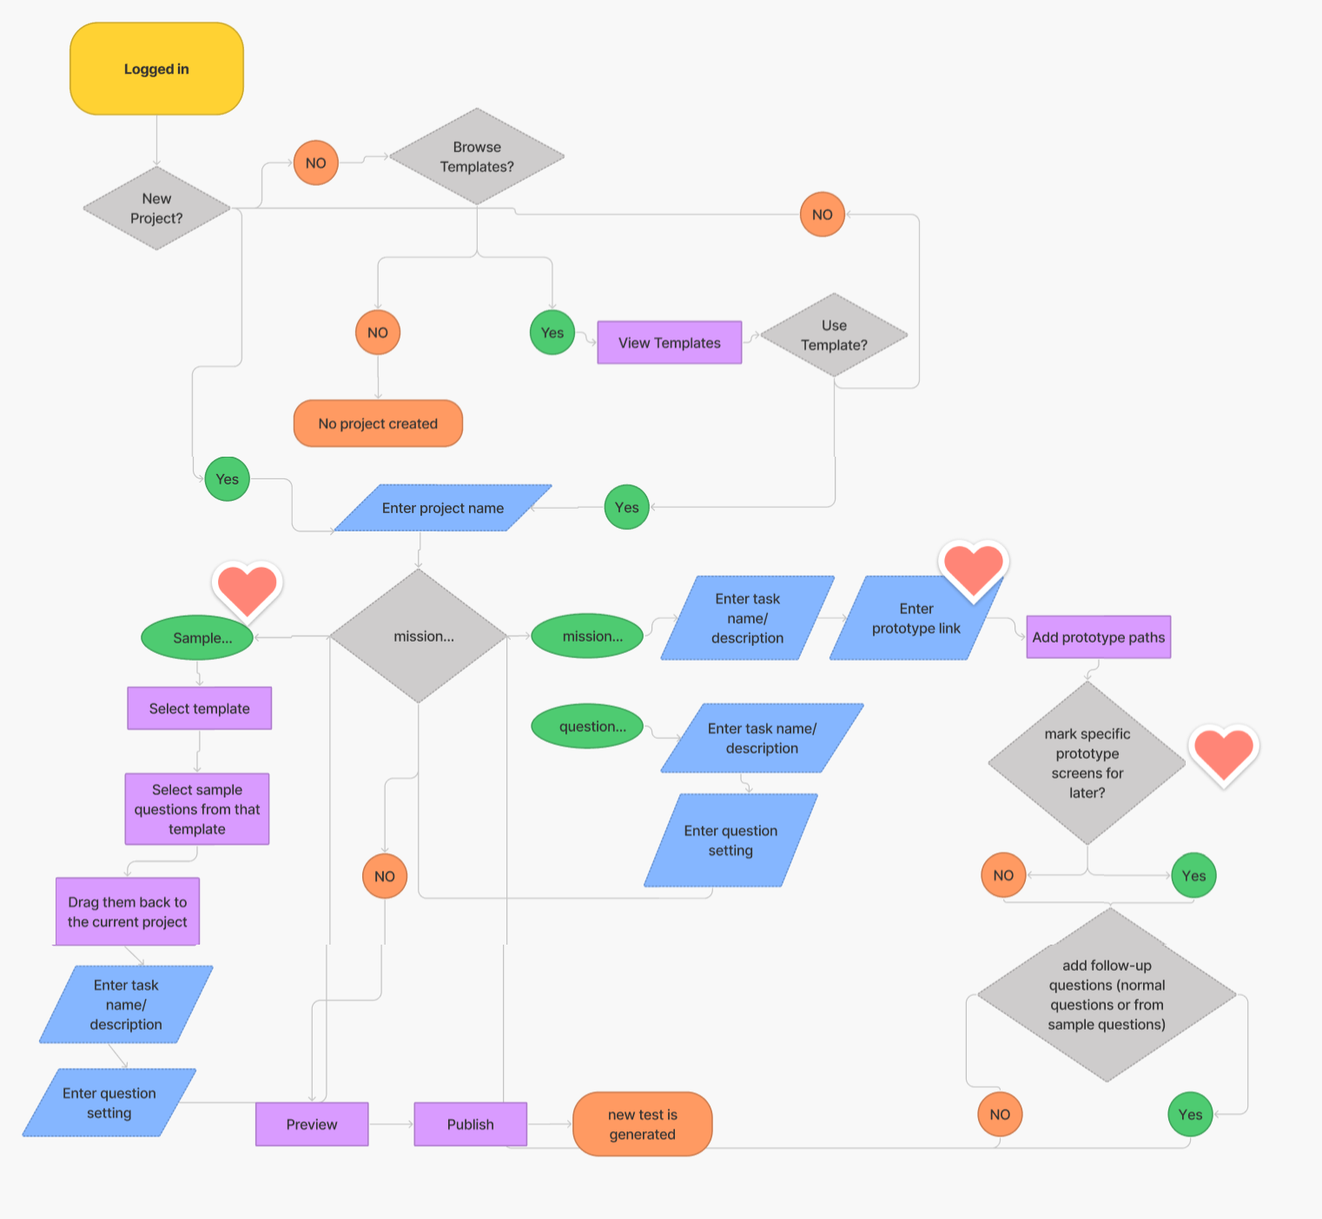
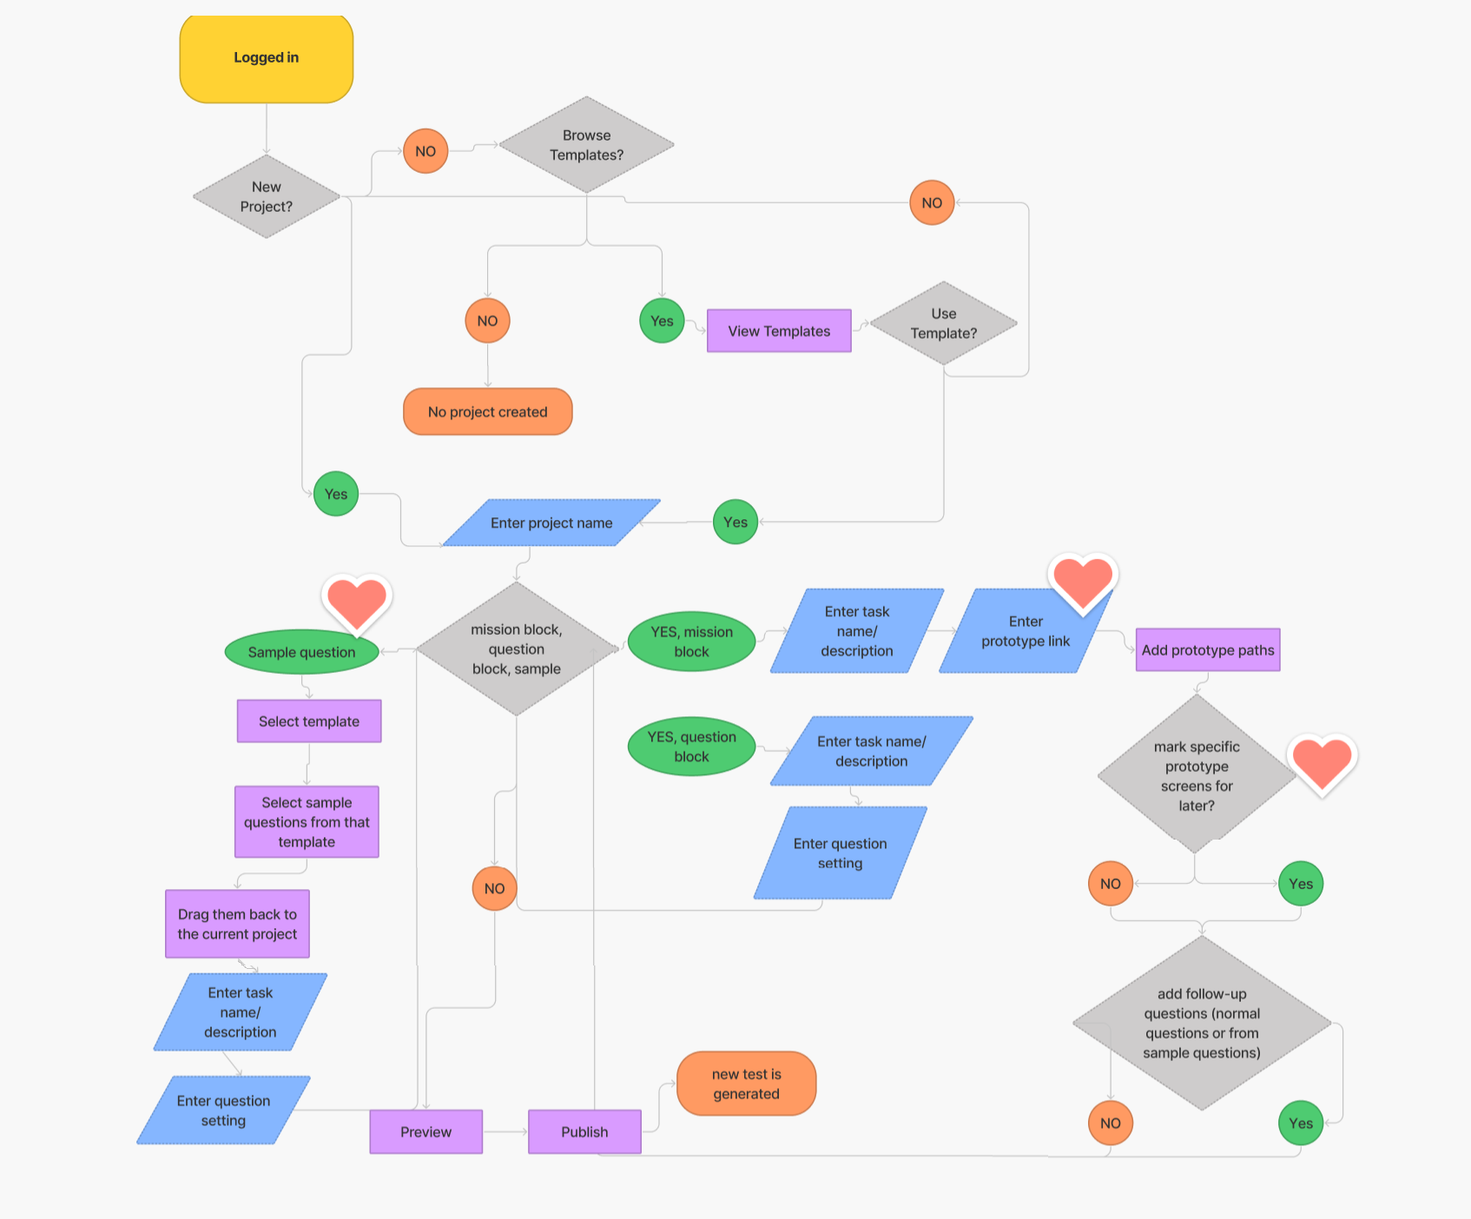
maze: almost the last part

diff --git a/maze.html b/maze.html
@@ -86,7 +86,7 @@
   <p class="project-paragraph ">We discovered Maze's interface had many components that will create visual confusion. If we could decrease the amount of visual confusion, we can improve users'
     experience. Nevertheless, we decided to first understand our users' pain points and expectations when they conduct prototyping/usability tests to validate this workflow redesign is necessary.</p>
     <h3  class="project-paragraph in-para-overview-title">Solution</h3>
-    <p class="project-paragraph">Maze's business goal aligns with users' expectations. Hence, my team utilized mind-mapping to brainstorm new solutions to improve the status quo. In the end, we came up with a "duplication feature" where the users can duplicate sample questions from Maze's templates to set up proper and meaningful mission blocks and follow-up question blocks. This cost-effective solution also offers our users more guidance when creating their own usability tests.</p>
+    <p class="project-paragraph">Maze's business goal aligns with users' expectations. Hence, my team utilized mind-mapping to brainstorm new solutions to improve the status quo. In the end, we came up with a "duplication feature" where the users can duplicate sample questions from Maze's templates to set up proper and meaningful mission blocks and follow-up question blocks. We also incorporated a follow-up button in the edit panel to invite the users to add relevant questions or sample pre-designed questions. A bookmarking feature was also introduced so that users can mark specific screens and re-add them in the follow-up questions. This cost-effective solution also offers our users more guidance when creating their own usability tests.</p>
 
     <h3  class="project-paragraph in-para-overview-title">Next Step to Measure Success</h3>
     <p class="project-paragraph"></p>
@@ -97,7 +97,7 @@
   <section>
 
     <h2 class="project-section-title">Introduction</h2>
-    <p class="project-paragraph first-paragraph">This case study is from the UX/UI bootcamp, <em>Memorisely</em>. We collaborated with Maze, an online prototyping/insight collecting platform, to help improve their main services. Maze's main feature is the so-called "mission block" where researchers or designers will input their prototype link and design meaningful survey questions for their testers to provide insights. Currently, Maze reached out to Memorisely and wished the bootcamp students can shed new light on their current mission block workflow. How we could improve the current feature flow while also supporting researchers/designers to ask follow-up questions about their prototypes became the main goal.</p>
+    <p class="project-paragraph first-paragraph">This case study is from the UX/UI bootcamp, <em>Memorisely</em>. We collaborated with Maze, an online prototyping/insight collecting platform, to help improve their main services. Maze's main feature is the so-called "mission block" where researchers or designers will input their prototype link and design meaningful survey questions. Maze reached out to Memorisely and wished the bootcamp students can shed new light on their current mission block workflow. How we could improve the current feature flow while also supporting researchers/designers to ask follow-up questions about their prototypes became the main goal.</p>
 
     <h2 class="project-section-title">Fresh Eye Audit and Observation</h2>
 
@@ -116,8 +116,9 @@
           These interactive components can further cause user confusion. We might have to find a way to prioritize which area needed attention first.</figCaption>
         </figure>
 
-        <p class="project-paragraph">During the observation process, I noticed Maze has compacted much information in the editing screen after the users create their projects. The editing screen is divided into 3 columns with multiple highlights to attract the users to engage with them. If we closely observe the interface, we notice the users are faced with at least 7 highlighted touchpoints calling them for interactions. Each column has multiple either unlabeled or ambiguous interactive components (Figure 2). The relationship between the middle column and the right panel is even more unclear when the users are inputting content. For instance, when the users decide to import an image into the question block, the users have to go to the right column to select the images. However, when the users want to cancel their selection, the "cancel" button is surprisingly located on the top right corner away from the middle column (Figure 3). It took me several tries to discover how to undo my action. Overall, it is unclear that what the meaning of the right column is — is it a preview screen for the entire survey? or a file selection area? The ambiguity introduces more confusion to the users.
-        </p>
+        <p class="project-paragraph">During the observation process, I noticed Maze has compacted so much information in the editing screen after the users create their projects. The editing screen is divided into 3 columns with multiple highlights to attract the users to engage with them. If we closely observe the interface, we notice the users are faced with at least 7 highlighted touchpoints calling them for interactions. Each column has multiple either unlabeled or ambiguous interactive components (Figure 2). The relationship between the middle column and the right panel is even more unclear when the users are inputting content.</p>
+
+        <p class="project-paragraph">For instance, when the users decide to import an image into the question block, the users have to go to the right column to select the images. However, when the users want to cancel their selection, the "cancel" button is surprisingly located on the top right corner away from the middle column (Figure 3). It took me several tries to discover how to undo my action. Overall, it is unclear that what the meaning of the right column is — is it a preview screen for the entire survey? or a file selection area? The ambiguity introduces more confusion to the users.</p>
 
         <figure>
           <img src="image/maze_unclear_interface.png" class="project-image" alt="current interface audit2">
@@ -139,20 +140,20 @@
               Which <em>[occasionally confuses the users on where to find the meaningful control and display]</em>.</p>
 
               <h2 class="project-section-title">Setting a Research Goal</h2>
-              <p class="project-paragraph">After discussions with my teammates, we assumed the Maze's interface could be improved tremendously to help the designers or researchers using Maze have a smooth workflow. Naturally, we would want to validate whether or not this was how the users felt. However, sometimes the business goal doesn't necessarily align with the user's need. To ensure users' need is the same as Maze's, we then decided to set our research direction broader to collect as many responses as possible to understand how we can combine users' goals with Maze's vision. Hence, the research direction is broad in this case to gather general feelings about doing remote prototyping:</p>
+              <p class="project-paragraph">After discussions with my teammate, we thought Maze's interface could be improved tremendously to help the designers or researchers using Maze have a smooth workflow. Naturally, we would want to validate whether or not this was how the users felt. However, sometimes the business goal doesn't necessarily align with the user's need. To ensure users' need is the same as Maze's, we then decided to set our research direction broader to collect as many responses as possible to understand how we can combine users' goals with Maze's vision. Hence, the research direction is broad in this case to gather general feelings about doing remote prototyping:</p>
 
               <p class="project-paragraph note">Research Goal:<br>To understand what users know about usability testing and what their expectations are specifically for remote testing
                 &rarr; <b>so we can embed their expectations into our interface and most importantly, our mission block flow.</b></p>
 
                 <h2 class="project-section-title">Remote User Research</h2>
-                <p class="project-paragraph">To confirm our observations and assumptions, each team member designed several versions
+                <p class="project-paragraph">To confirm our observations and assumptions, each of us designed several versions
                   of the survey to receive a variety range of replies.</p>
 
                   <p class="project-paragraph"> <a href="https://shadow-dawn-84c.notion.site/Maze-Personal-Survey-Questions-c46f5c85516a4fb18beae064cb80dfe2" class="paragraph-in-text">Check my survey questions</a><br>
                     &rarr; this survey was to generally understand what our users think about different forms of prototyping and testing</p>
 
                     <p class="project-paragraph"><a href="https://shadow-dawn-84c.notion.site/Maze-Team-Survey-Questions-ed84bfd9ec3d4d7c97bf4fa53786d9b0" class="paragraph-in-text">
-                      Check my team survey questions</a><br>&rarr; By embedding the functionality questions about Maze into the questions, we can indirectly receive feedback on users' mental models and thoughts about conducting a testing</p>
+                      Check my team survey questions</a><br>&rarr; this survey asked our users their feeling towards usability tests. By doing this, we can indirectly receive feedback on users' mental models and thoughts about conducting a testing</p>
 
                       <h2 class="project-section-title">Synthesizing the Data and Patterns</h2>
                       <p class="project-paragraph">Having shared my survey with users who conduct usability tests/prototyping, the next stage of my case study was focusing on synthesizing the data
@@ -181,7 +182,7 @@
                             <p class="project-paragraph">We found two concerns that we could assert our influence to improve the fundamental experience of the interface:</p>
 
                             <p class="project-paragraph note">1) How might we help designers/researchers to establish enough usability test context/hints? <br>
-                              2)How might we assist our designers to ask the right follow-up questions?</p>
+                              2)How might we assist our designers to ask the right follow-up questions just like they are conducting synchronous testings?</p>
 
                               <p class="project-paragraph">If we look closely, we will discover that these two concerns overlap with Maze's business goal of improving the mission block interaction. We can now say Maze and our users have the same vision.</p>
 
@@ -191,23 +192,23 @@
 
                               <h2 class="project-section-title">Ideation & Challenge in Finding a Cost-Effective Solution</h2>
 
-                              <p class="project-paragraph">We then used mind-mapping to brainstorm and then narrow down again on our main how-might-we question (Figure 6).</p>
+                              <p class="project-paragraph">We then used mind-mapping to brainstorm and then narrowed down again on our main how-might-we question (Figure 6).</p>
 
                               <figure>
                                 <img src="image/maze_mindmapping.png" class="project-image" alt="a screenshot of the mind-mapping">
                                 <figCaption>Figure 6: a screenshot of my team's mind-mapping diagram.</figCaption>
                               </figure>
 
-                              <p class="project-paragraph">Since our users would love to have guidance on how to ask the correct follow-up questions, I initiated meetings with my teammates to brainstorm on possible ways to support users' actions. Originally, we came up with a solution of developing a "recommendation switch." When the switch is on, Maze would auto-generate follow-up questions (Figure 6). However, our bootcmap mentors commented that this kind of solution would be costly. Hence, we moved on to iterate on how to represent the same idea in another form.</p>
+                              <p class="project-paragraph">Since our users would love to have guidance on how to ask the correct follow-up questions, I initiated meetings with my teammates to brainstorm on possible ways to support users' actions. Originally, we came up with a solution of developing a "recommendation switch." When the switch is on, Maze would auto-generate follow-up questions (Figure 6). However, our bootcmap mentors commented that this kind of solution would be expensive. Hence, we moved on to iterate on how to represent the same idea in another form.</p>
 
-                              <p class="project-paragraph">As mentioned previously, Maze's templates are already built-in to assist our users with content, questions and format. One drawback to this feature is that the template is only accessible when the users create a new testing project. How we can access the information that Maze already provides to solve users' pain point of not knowing how to ask a good follow-up question became the main topic we have to brainstorm on.</p>
+                              <p class="project-paragraph">As mentioned previously, Maze's templates are already built-in to assist our users with content, questions and format. One drawback to this feature is that the template is only accessible when the users create a new testing project. How we can access the information that Maze already provides to solve users' pain point of not knowing how to ask a good follow-up question became the main topic we had to brainstorm on.</p>
 
-                              <p class="project-paragraph">I then suddenly recalled Photoshop has a feature of allowing its users to duplicate certain layers or components across different files. Therefore, I brought up the idea of "duplicating the sample template questions to the current testing file our users are working on." (Figure 6) By doing this, it forces the templates to be accessible to the users at all times. This design also helps our users determine what good questions look like. In the current Maze interface, users can access all prototype screens to their follow-up questions. I decided to take one step further to enable our users to mark specific screens in each individual prototype task. That way, when users create follow-up questions, they don't have to look through all prototype screens to find the specific steps that they want to investigate.</p>
+                              <p class="project-paragraph">I then suddenly recalled Photoshop has a feature of allowing its users to duplicate certain layers or components across different files. Therefore, I brought up the idea of "duplicating the sample template questions to the current testing file our users are working on" (Figure 6). By doing this, it forces the templates to be accessible to the users at all times. This design also helps our users determine what good questions look like. In the current Maze interface, users can access all prototype screens to their follow-up questions. I decided to take one step further to enable our users to mark specific screens in each individual prototype task. That way, when users create follow-up questions, they don't have to look through all prototype screens to find the specific steps that they want to investigate.</p>
 
                               <p class="project-paragraph">This duplication solution cleverly solves both of the how-might-we questions in the previous section at the same time.</p>
 
                               <h2 class="project-section-title">User Flows</h2>
-                              <p class="project-paragraph">Following Ideation, I created user flows of the existing experience (Figure 7 & 8) and improved the flow based on the idea that fit with business and user goals(Figure 9).</p>
+                              <p class="project-paragraph">Following Ideation, I created user flows of the existing experiences (Figure 7 & 8) and improved the flow based on the idea that fit with business and user goals(Figure 9).</p>
 
                               <figure>
                                 <img src="image/maze_olduserflow.png" class="project-image" alt="a screenshot of the previous user flow">
@@ -216,23 +217,51 @@
 
                               <figure>
                                 <img src="image/maze_olduserflow2.png" class="project-image" alt="a screenshot of a narrowed-down version of the previous user flow">
-                                <figCaption>Figure 8: A narrow-down version of the user flow that only highlights the process of adding mission block and follow-up questions.</figCaption>
+                                <figCaption>Figure 8: A narrow-down version of the user flow that only highlights the process of adding mission block and follow-up questions. Users are left alone without much guidance and help.</figCaption>
                               </figure>
 
                               <p class="project-paragraph">To create the improved user flow, I then defined a new user story to frame the scope of the new flow:</p>
                               <p class="project-paragraph note"> <b>User Story</b><br> As a UX / UI Researcher,<br>I want to be able to create usability tests easily with follow up questions <br>So I can receive clear feedback on my product.</p>
 
 
-<p class="project-paragraph">To fulfill the above user story, the new sample question duplication feature is included to support users' goal of asking a better set of questions.</p>
+                              <p class="project-paragraph">To fulfill the above user story, the new sample question duplication feature is included to support users' goal of asking a better set of questions. When the users want to incorporate
+                                a follow-up question in a mission block, they can also bookmark specific screens of the prototype and bring them into the questions for context. Sample question option is also available during the creation of follow-up questions.</p>
 
-<figure>
-  <img src="image/maze_newuserflow.png" class="project-image" alt="a screenshot of a narrowed-down version of the previous user flow">
-  <figCaption>Figure 9: The new user flow. This flow allows the users to access to "sample question" duplication feature whenever they need it. The support becomes easier to find.</figCaption>
-</figure>
+                              <figure>
+                                <img src="image/maze_newuserflow.png" class="project-image" alt="a screenshot of a narrowed-down version of the previous user flow">
+                                <figCaption>Figure 9: The new user flow. This flow allows the users to access to "sample question" duplication feature whenever they need it. The support becomes easier to find.</figCaption>
+                              </figure>
 
-<h2 class="project-section-title">Low-fi Sketches and Wireframes</h2>
+                              <h2 class="project-section-title">Low-fi Sketches and Wireframes</h2>
 
-<p class="project-paragraph">After knowing where to place the new feature for our users, I led the team back to iterate the overall interface design. As mentioned in the "Fresh Eye Audit and Observations" section, there are many visual confusions embedded in the current Maze interface. To improve the experience, we removed ambiguous labelling/buttons and an unclear edit-preview screen. An interface redesign with obvious touchpoints, a focused content edit area and a simple survey preview screen was created to guide the users to have a focused experience (Figure 10 & 11).</p>
+                              <p class="project-paragraph">After knowing where to place the new feature for our users, I led the team to iterate the overall interface design. As mentioned in the "Fresh Eye Audit and Observations" section, there are many visual confusions embedded in the current Maze interface. To improve the experience, we removed ambiguous labelling/buttons, the overwhelming numbers of mission block types in the "add block" button on the left column and an unclear edit-preview screen. An interface redesign with obvious touchpoints, a focused content edit area and a simple survey preview screen was created to guide the users to have a focused experience (Figure 10 & 11).</p>
+
+                              <figure>
+                                <img src="image/maze_sketches.jpg" class="project-image" alt="sketches of the new interface">
+                                <figCaption>Figure 10: A photo of the interface sketches I did to explore different ways to break the disconnection in the interface. Since the users heavily depend on the preview screen to look at their survey, instead of a 3-column interface, I decided to open the space up for the preview; the edit panel is at the bottom in proximity to avoid the situation of being unable to find the proceeding buttons for follow-up questions or prototype path creation.</figCaption>
+                              </figure>
+
+                              <figure>
+                                <img src="image/maze_wireframes.png" class="project-image" alt="a screenshot of the wireframes">
+                                <figCaption>Figure 11: Some of the screenshots of the newly designed interface wireframes. This flow highlights the key screens of the workflow: adding a mission block, bookmarking the specific screen for follow-up questions and browsing/adding sample questions into the current project.</figCaption>
+                              </figure>
+
+                              <h2 class="project-section-title">Hi-fi mockup</h2>
+                              <p class="project-paragraph">The lo-fi prototype helped me recognize frustrations with the experience that I improved at the hi-fi stage. To create the high fidelity prototype I inspected the product's style and followed the 8pt rule to effectively and easily create a prototype that was consistent with the product styling. Before creating the prototype I defined styles and components to easily and quickly help me design consistently (Figure 12).</p>
+
+                              <figure>
+                                <img src="image/maze_component.png" class="project-image" alt="a screenshot of the wireframes">
+                                <figCaption>Figure 11: Some of the screenshots of the newly designed interface wireframes. This flow highlights the key screens of the workflow: adding a mission block, bookmarking the specific screen for follow-up questions and browsing/adding sample questions into the current project.</figCaption>
+                              </figure>
+
+                              <div class="prototype_container">
+                                <div class="prototype_wrapper">
+                                  <iframe width="800" height="450"
+                                  src="https://www.figma.com/embed?embed_host=share&url=https%3A%2F%2Fwww.figma.com%2Fproto%2FFcr6fGJxeIapyVo05GGyDc%2FInterface%3Fnode-id%3D752%253A3769%26scaling%3Dscale-down%26page-id%3D501%253A2526%26starting-point-node-id%3D752%253A3769" allowfullscreen></iframe>
+                                </div>
+                              </div>
+
+                              <h2 class="project-section-title">Reflection and Future Plan</h2>
 
 
                               <p class="project-paragraph"><a href ="#top" class="paragraph-in-text">Back to Top</a></p>
